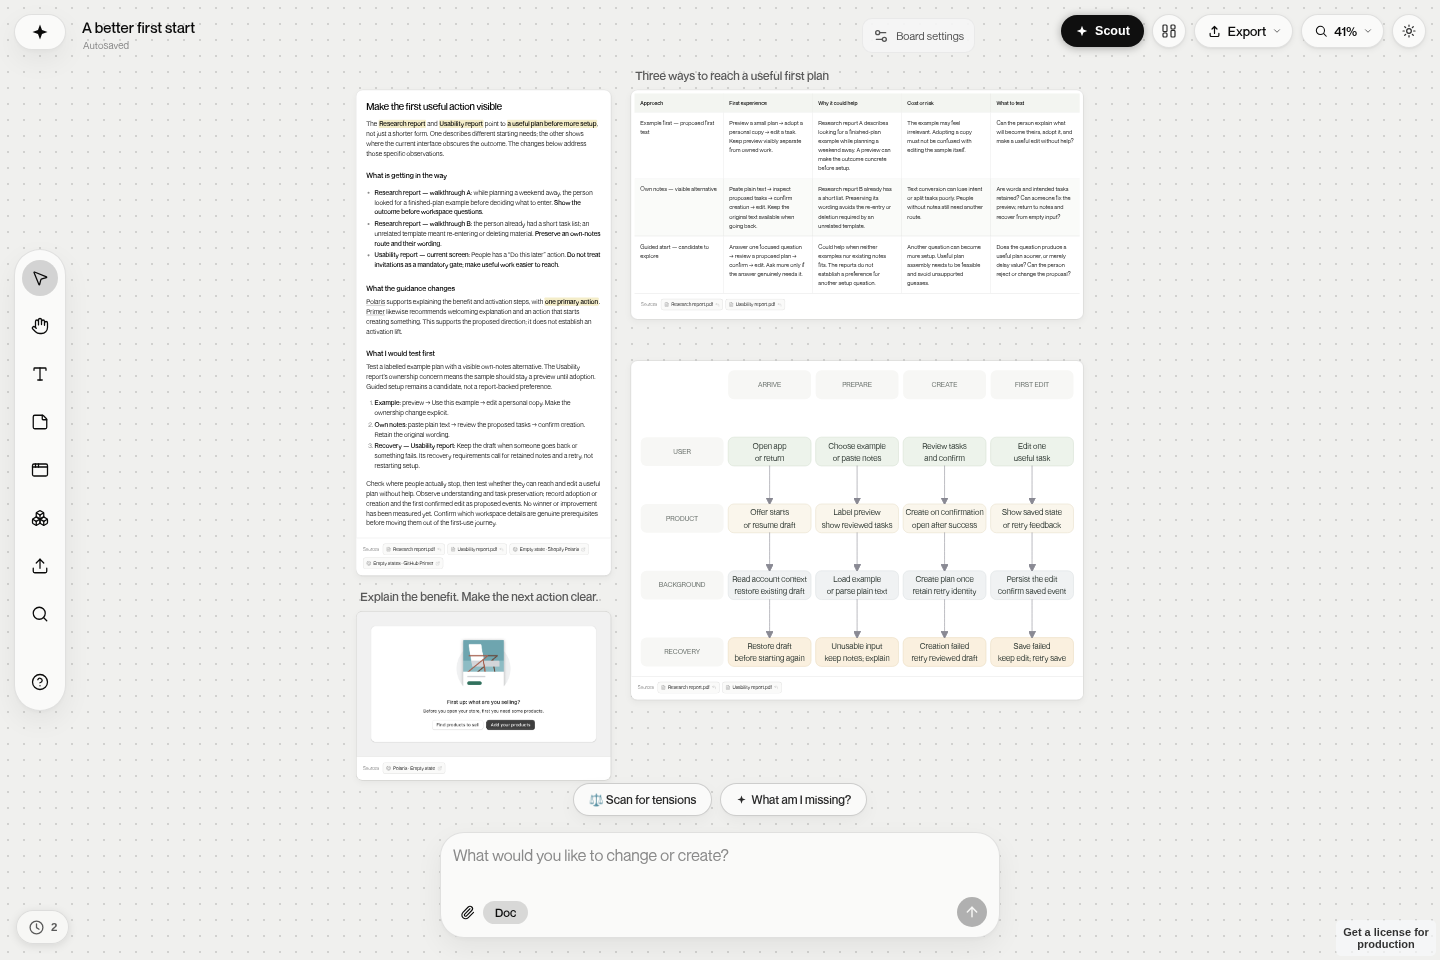
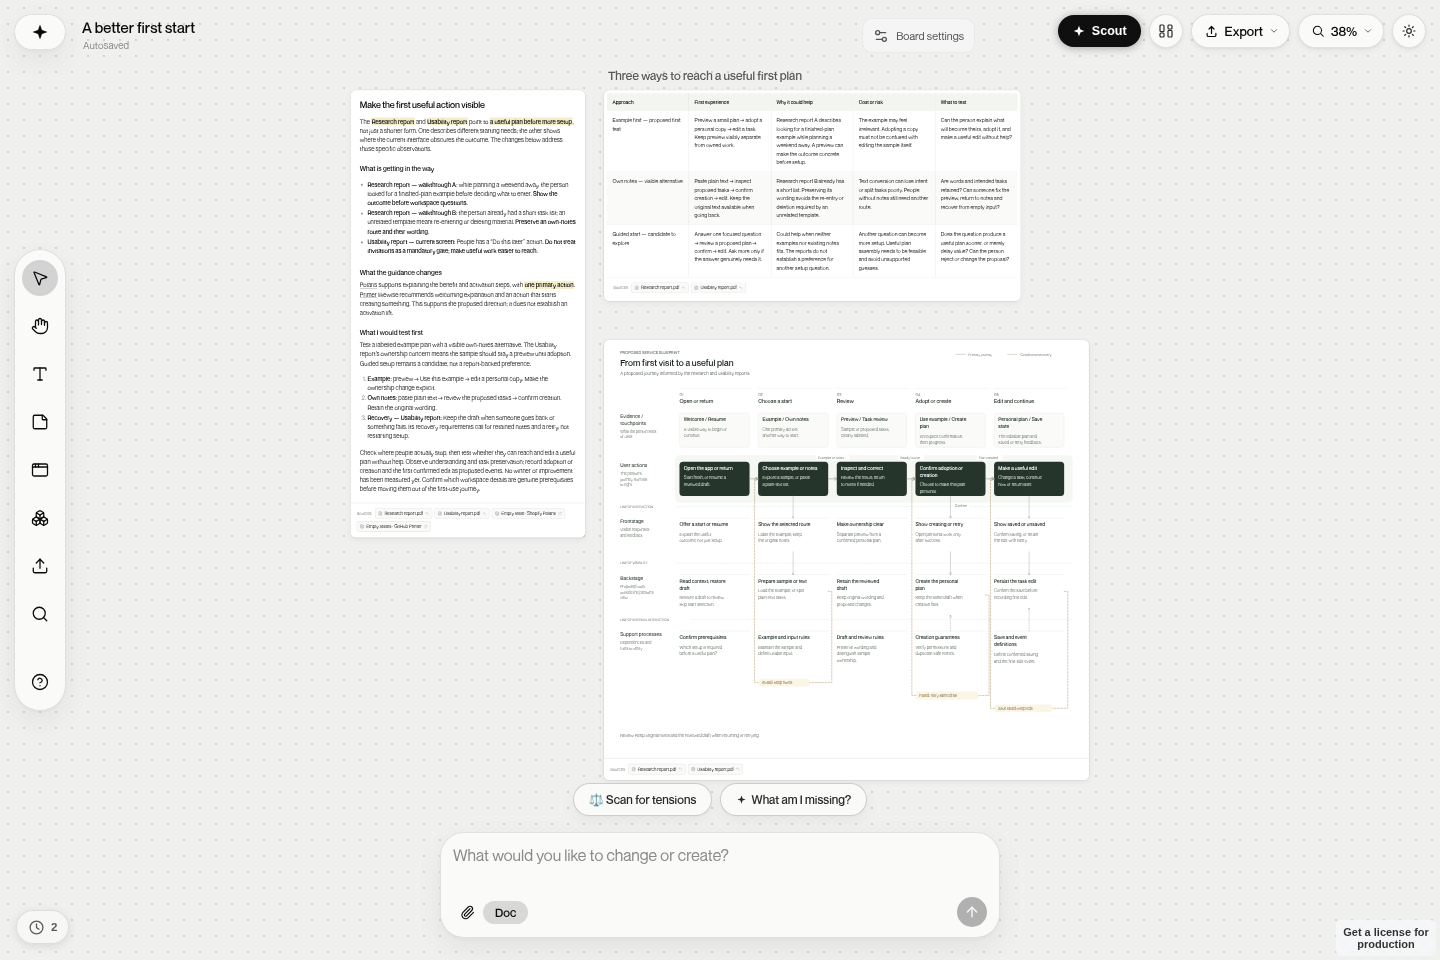
Refine Jarwiz service blueprint and focus opening on ideation

diff --git a/work/jarwiz-ui-review/index.html b/work/jarwiz-ui-review/index.html
@@ -99,7 +99,7 @@
       attachments:{label:'Attachments',caption:'Keep the supporting files close to the question.',alt:'Compact report attachments in the Jarwiz prompt'},
       research:{label:'Research',caption:'Read the reasoning and follow its sources.',alt:'A Jarwiz research card with sources inside the card'},
       comparison:{label:'Comparison',caption:'Compare the approaches side by side.',alt:'A detailed comparison table in Jarwiz'},
-      blueprint:{label:'Blueprint',caption:'Trace the experience across user and system steps.',alt:'A service blueprint on the Jarwiz canvas'},
+      blueprint:{label:'Blueprint',caption:'Follow each step across service lanes, with recovery paths where needed.',alt:'A chronological service blueprint with conditional recovery paths on the Jarwiz canvas'},
       canvas:{label:'Canvas',caption:'Keep the whole response in view.',alt:'The complete Jarwiz working canvas'},
     };
     const tabs=[...document.querySelectorAll('[data-surface]')];
@@ -108,7 +108,8 @@
     let selected='start',previousOverflow='';
     const path=key=>`./surfaces/${key}.png`;
     function setImageState(ready){empty.hidden=ready;imageLink.style.visibility=ready?'visible':'hidden';fullLink.hidden=!ready;if(ready&&mainImage.naturalWidth){stage.style.aspectRatio=`${mainImage.naturalWidth} / ${mainImage.naturalHeight}`;}}
-    function selectSurface(key,focus=false){
+    function selectSurface(key,focus=false,updateHash=true){
+      if(!Object.hasOwn(surfaces,key))return;
       selected=key;
       const surface=surfaces[key];
       tabs.forEach(tab=>{const active=tab.dataset.surface===key;tab.setAttribute('aria-selected',String(active));tab.tabIndex=active?0:-1;});
@@ -121,6 +122,7 @@
       const tab=document.querySelector(`#tab-${key}`);
       if(focus)tab.focus({preventScroll:true});
       tab.scrollIntoView({block:'nearest',inline:'nearest'});
+      if(updateHash&&location.hash!==`#${key}`)history.replaceState(history.state,'',`#${key}`);
     }
     tabs.forEach((tab,index)=>{
       tab.addEventListener('click',()=>selectSurface(tab.dataset.surface));
@@ -151,6 +153,9 @@
     sizeButton.addEventListener('click',()=>{
       const actual=dialog.dataset.actualSize!=='true';dialog.dataset.actualSize=String(actual);dialogImage.style.width=actual?`${dialogImage.naturalWidth||mainImage.naturalWidth}px`:'';sizeButton.textContent=actual?'Fit to view':'Actual size';sizeButton.setAttribute('aria-pressed',String(actual));
     });
+    function selectFromHash(){const key=location.hash.slice(1)||'start';if(Object.hasOwn(surfaces,key))selectSurface(key,false,false);}
+    window.addEventListener('hashchange',selectFromHash);
+    selectFromHash();
   </script>
 </body>
 </html>
